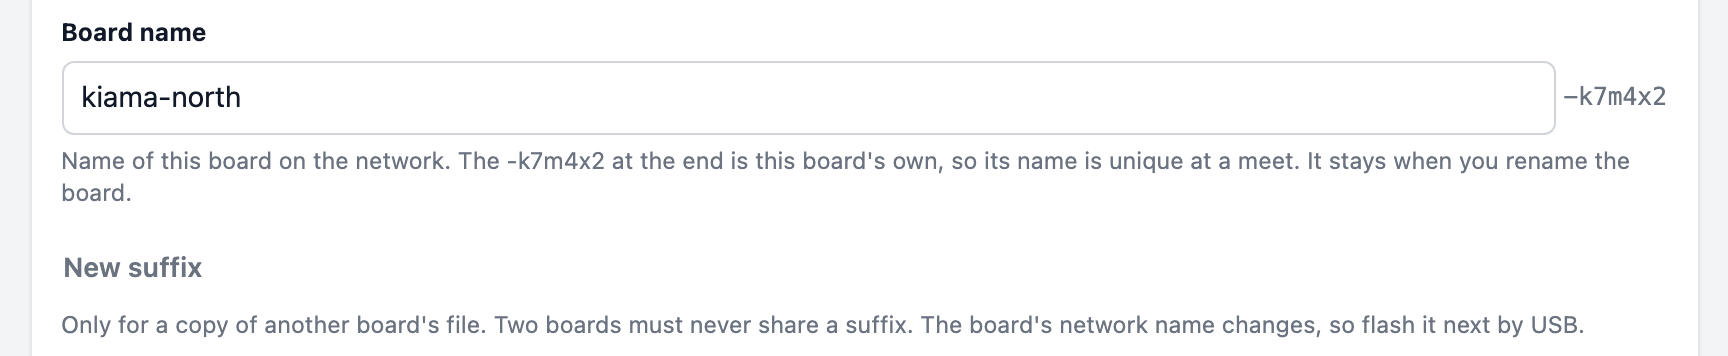
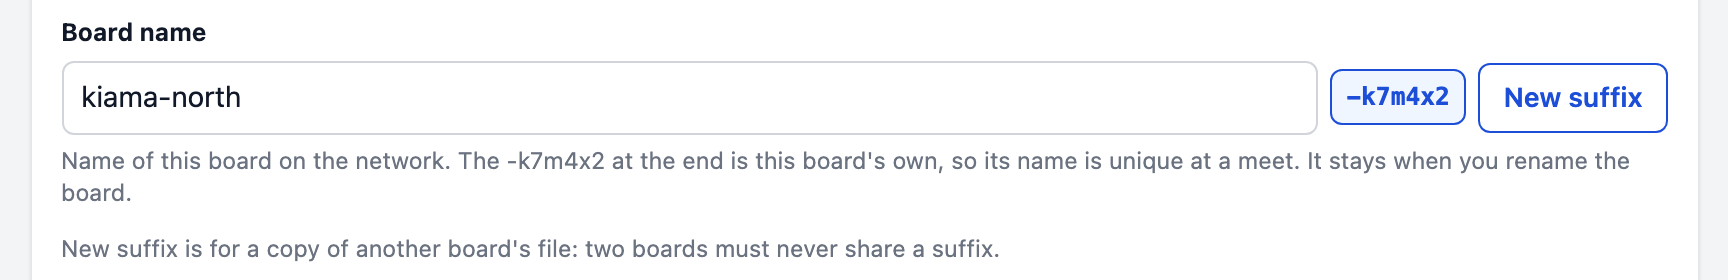
Board page: New suffix as a button beside the suffix, which asks first.
The suffix shows as a blue tag after the name, with New suffix beside it as
a proper button (it was a grey text link under the field). Being easier to
click, it now asks first, saying it is only for a copy of another board's
file and that the next flash is by USB. Add a suffix, on a board with none,
is the page's main button.

diff --git a/configurator/app.js b/configurator/app.js
@@ -899,20 +899,28 @@ function boardNameFields() {
   });
   const fields = [nameField];
   if (suffix) {
+    // The name, its suffix as a tag, and New suffix beside them.
     const input = nameField.querySelector("input");
     const row = document.createElement("span");
     row.className = "name-with-suffix";
     const tail = document.createElement("span");
     tail.className = "name-suffix";
     tail.textContent = `-${suffix}`;
+    tail.title = "This board's own suffix";
+    const again = document.createElement("button");
+    again.type = "button";
+    again.className = "suffix-button";
+    again.textContent = "New suffix";
+    again.setAttribute("aria-expanded", String(askingSuffix));
+    again.addEventListener("click", () => {
+      askingSuffix = !askingSuffix;
+      render();
+      if (askingSuffix) document.querySelector(".suffix-confirm button.primary")?.focus();
+    });
     input.replaceWith(row);
-    row.append(input, tail);
-    fields.push(suffixAction("New suffix",
-      "Only for a copy of another board's file. Two boards must never share a suffix. The board's network name changes, so flash it next by USB.",
-      () => {
-        newNameSuffix(b);
-        return `New suffix -${b.nameSuffix}. Flash this board by USB next: its network name has changed.`;
-      }));
+    row.append(input, tail, again);
+    fields.push(askingSuffix ? suffixConfirm(b) : suffixNote(
+      "New suffix is for a copy of another board's file: two boards must never share a suffix."));
   } else {
     fields.push(suffixAction("Add a suffix",
       "Adds six characters, such as -k7m4x2, so this board's name is unique at a meet. Boards that share or run logic need one. The board's network name changes, so flash it next by USB.",
@@ -924,12 +932,54 @@ function boardNameFields() {
   return fields;
 }
 
+// Whether New suffix is asking before it changes the board's name.
+let askingSuffix = false;
+
+function suffixNote(text) {
+  const wrap = document.createElement("div");
+  wrap.className = "suffix-action full";
+  wrap.append(hintEl(text));
+  return wrap;
+}
+
+// New suffix, asked first: the network name changes, so the next flash is by USB.
+function suffixConfirm(b) {
+  const box = document.createElement("div");
+  box.className = "suffix-confirm full";
+  const ask = document.createElement("p");
+  ask.textContent = `Give this board a new suffix in place of -${b.nameSuffix}? Do this only for a copy of another board's file: two boards must never share a suffix. The board's network name changes, so flash it next by USB.`;
+  const yes = document.createElement("button");
+  yes.type = "button";
+  yes.className = "primary";
+  yes.textContent = "Yes, give it a new suffix";
+  yes.addEventListener("click", () => {
+    newNameSuffix(b);
+    askingSuffix = false;
+    persist();
+    render();
+    flash("ok", `New suffix -${b.nameSuffix}. Flash this board by USB next: its network name has changed.`);
+  });
+  const no = document.createElement("button");
+  no.type = "button";
+  no.textContent = "Cancel";
+  no.addEventListener("click", () => {
+    askingSuffix = false;
+    render();
+  });
+  const row = document.createElement("div");
+  row.className = "dialog-actions";
+  row.append(no, yes);
+  box.append(ask, row);
+  return box;
+}
+
+// Add a suffix, for an older board with none: the page's main button.
 function suffixAction(label, hint, apply) {
   const wrap = document.createElement("div");
   wrap.className = "suffix-action full";
   const button = document.createElement("button");
   button.type = "button";
-  button.className = "text";
+  button.className = "primary";
   button.textContent = label;
   button.addEventListener("click", () => {
     const message = apply();

diff --git a/configurator/styles.css b/configurator/styles.css
@@ -565,7 +565,7 @@ button:focus-visible {
 .name-with-suffix {
   display: flex;
   align-items: center;
-  gap: 0.25rem;
+  gap: 0.4rem;
 }
 
 .name-with-suffix input {
@@ -575,7 +575,31 @@ button:focus-visible {
 
 .name-suffix {
   font-family: var(--mono);
-  color: var(--muted);
+  font-weight: 650;
+  color: var(--accent);
+  background: var(--accent-soft);
+  border: 1px solid var(--accent);
+  border-radius: 6px;
+  padding: 0.3rem 0.5rem;
+  white-space: nowrap;
+}
+
+button.suffix-button {
+  white-space: nowrap;
+  border-color: var(--accent);
+  color: var(--accent);
+}
+
+.suffix-confirm {
+  grid-column: 1 / -1;
+  padding: 0.75rem 0.9rem;
+  border: 1px solid var(--accent);
+  border-radius: 8px;
+  background: var(--accent-soft);
+}
+
+.suffix-confirm p {
+  margin: 0 0 0.5rem;
 }
 
 .suffix-action {

diff --git a/AGENTS.md b/AGENTS.md
@@ -72,7 +72,7 @@ This repo is a beginner path for model-railroad ESP32 boards that talk to JMRI/C
 - Live at https://aaron9589.github.io/esphome-for-model-railroading/
 - Source: `configurator/` (static site). Deployed by `.github/workflows/pages.yml` on pushes to `main` that touch `configurator/**`, only after `.github/workflows/test.yml` passes; `configurator/test/` is left out of the site. `test.yml` also runs on PRs into `main`, `feature/logic` and `logic/**` (stacked work items) and on pushes to `feature/logic`.
 - Writes one `board.yaml` with an `esphome-mr-config:1` comment so the same file can be imported again. Do not invent a second file format.
-- New boards get a six-character name suffix (`board.nameSuffix`, letters and digits without `0`, `o`, `1`, `l`), kept on rename: it is the board's identity at a meet. The Board page edits the part before it (19 characters at most) and offers **Add a suffix** (old boards) and **New suffix** (a copy of another board's file). A board without one writes exactly the old YAML.
+- New boards get a six-character name suffix (`board.nameSuffix`, letters and digits without `0`, `o`, `1`, `l`), kept on rename: it is the board's identity at a meet. The Board page edits the part before it (19 characters at most) and offers **Add a suffix** (old boards; the page's main button) and **New suffix** (a copy of another board's file; a button beside the suffix, which is shown as a tag, and asks first). A board without one writes exactly the old YAML.
 - **Expanders (MCP23017)** on the Sensors page (`config.expanders`): each shares a PCA9685 board's SDA/SCL (`bus`, from 1) or has its own `sda`/`scl`; address `0x20`-`0x27`. A sensor on one stores `expander` (its name) and `pin` (0-15, shown A0-B7) instead of `gpio`. The page lists sensors on ESP pins first, then each expander as a card with its sensors under it (like turnouts under their PCA9685), with its own **Add sensor**. PCA9685 and expander cards fold from their title (`foldHeader`); which are folded is not saved. `i2cBuses()` works out the buses (two at most); one bus keeps the id-less `i2c:` YAML. Files without expanders keep no `expanders` key.
 - **Logic page** (on `feature/logic` only, being built): stored in `config.logic` (`mode`, `share`, ...); the page is `logic-ui.js` plus one file per part (`logic-ui-masts.js`: Masts, Buttons; `logic-ui-rules.js`: Sections, Groups and the rule cards; `logic-ui-views.js`: Who uses what, the control table; `logic-ui-start.js`: starters, the Download page's Logic version). Each part calls `EsphomeMrLogicUi.registerPart({ id, order, modes, text, render })`; its id is its card's element id, which validation links point at. Every word is in a `TEXT` handed to `registerPart`, linted for spec-only terms. Parts keep their logic in pure functions on their global (tested without a DOM) and use the shared helpers in `EsphomeMrLogicUi.UI`. Starters (2.8) are in `logic-starters.js` (the core: `defineStarter`, `defaults`, `problems`, `build`, `apply`, `dialog`), with One-train section and Lock turnouts in `logic-starters-sections.js` and Block signals and Route signal in `logic-starters-signals.js`. Building is plain JS that Node tests call; each starter's worked example is checked by putting its rules into the matching engine case and replaying it (`test/starters-*.test.js`). A starter's form turns its card on through `EsphomeMrLogicUiStart.registerStarter`. **MSS page** (4.2): `logic-ui-mss-steps.js` (guided steps, Ends, the Signals grid), `logic-ui-mss-module.js` (the module picture `logic-mss-module`, pinned at the top: a pure `layout(config)` of ends, tracks and junctions, checked by `test/mss-module.test.js`, falling back to one track to a row when tracks would overlap; clicking a block or boundary opens its form, a junction or end scrolls to its card); Try it (`logic-try`, registered for both modes) draws it live in MSS Logic through `livePicture` (trains in blocks, each signal's lamp, the route the turnouts set, turnouts to click) and runs a train with `trainRoute` (in at an end, along the set route, out at another) and `trainStarts`; `EsphomeMrMssBuilder.namesOf` maps the description to the built block and signal names. It hides the signals with no lights and the Sections heading, `logic-ui-mss-tracks.js` (each track's From and To, and the form for the block or boundary picked on the picture, `pick`/`picked`; any change saves and draws the whole page), `logic-ui-mss-junctions.js` (junctions from a shape, routes; a junction keeps the `shape` it was made from, used only to draw it), `mss-templates.js` (the standard MSS modules: Crossover, Cascade, Complex cascade, as the ISE boards build them; `plan`/`apply` write the description and hand the page's `addItems` the sensors, turnout and CATS-aspect masts to add with free pins; signals are individual LEDs by default, three to a head, or one WS2812B LED a head with `style: "strip"`; the confirm panel warns when the LEDs outnumber `safeOutputPins`, the free pins that are not strapping pins; offered on the steps card while the module is empty), `logic-ui-mss-marks.js` (red dots: mark an element with `data-mss-part` and `data-mss-<key>` matching the builder's `where`; `apply` runs after the page draws). Parts register with `modes: ["mss"]` and the ids in `EsphomeMrMssBuilder.PARTS`; the views show built items read-only, marked Made by MSS Logic; `test/mss-page.test.js` lints MSS-only terms. Its YAML and XML come from `logic-yaml.js` hooks in `generator.js`. Mode None with Share unticked writes no `logic` key, so the YAML is unchanged. **Share with other boards** (on by default in Field Logic) adds only: the board Online topic as MQTT birth/will/shutdown, each sensor's retained `/State`, each turnout's retained `/Moving` (around announced throws, after `/Thrown`), each mast's retained `/State` (its JMRI aspect name), and the Owner MAC check (`trains/track/board/<board>/Owner`; a clash logs an error and shows on the web page). JMRI XML gets a Logic tick box with `MSboard/<board>/Online`. **Blocks** (`logic.blocks`, Field Logic only): each is a template `binary_sensor` `<block>_block`, occupied while any member is (this board's sensor by name, or `{board, sensor|block}` from a linked board, which reads occupied until known; a member on an expander that `is_failed()` or `status_has_warning()` reads occupied). It publishes like a detector, plus `/State` when sharing, and goes in the JMRI Logic box. **Field Logic on the board** (`logic-yaml.js`, work item 2.5): Field Logic always writes the `mr_logic` component (`external_components` from `LOGIC_COMPONENT_REF`, which CI checks exists on GitHub), the `Field logic` switch, a `Release <section>` button per section, and the `Logic version` text sensor. The rule table is the engine cases' board format (`logicTable`); the version code is a hash of it (`versionCode`). A mast that rules set keeps its `mqtt_subscribe` without `on_value` (the component reads it) and needs no MQTT. Aspect names in the table are the Signal Masts labels, in order, so they must be unique on masts logic uses. Untagged aspects are `stop`. A rule-locked turnout (`lockedTurnoutNames`) gets `<id>_field_locked` beside the remote lock in the button guard, `CLOSED`/`THROWN` handlers and latch script (`lockFlags`), and the lock report from a template `<id>_lock_report` even without Remote lock. With Field Logic the component runs the unlock re-sync (`remote_locked`, `resync` bindings), so the `UNLOCKED` handler only clears the flag. **Validation** (2.6): `validateConfig` returns `links`, a Map from each message to `{ view, part }` (a page, and an element id such as `logic-groups`); `renderMessages` adds a **Show** link. Logic checks live in `logic-yaml.js` `validate`, reported through `reporter(errors, warnings, links)`: references, aspects, sections (one per block, here and across linked boards, whose snapshot keeps `logic.resources`), the mast cycle check (`mastCycles`), rule-button pins, and the warnings. Messages say what is wrong, why, and what to do, in the page's plain words. **Checker** (2.9): `logic-checker.js` explores every reachable state of the rule table in the JS engine (replaying the shortest path to each state; a wait step runs scans until something changes, so each timer can elapse at any point; inputs are only what the rules read). It reports deadlock (an error, blocking the download), starvation, rules that never apply and masts stuck at Stop (warnings), and falls back to seeded random runs past its budget. Limits (4.5, spec *Checker limits*, re-measured with `configurator/test/bench/checker-limits.mjs`, which `npm test` does not run): it checks a board in parts (`partsOf`: a mast's or section's rules plus the masts they read), explores inputs the rules cannot tell apart once (`checkerInputs`; Try it keeps `inputsOf`), and keys a state on each section's waiting order (`checkerView().asked`). Any change to these must keep `test/checker.test.js`'s comparison with `{ split: false, allInputs: true }` passing. `BUDGETS.validation` (2,000 states / 400 ms, then 200 ms of random runs) runs in validation in both Field Logic and MSS Logic, only when nothing else is wrong, memoised on the rule table; when it gives up, the Download page offers **Check every combination** (`checkFully`, `BUDGETS.full`: 30,000 states / 20 s), whose result stands until the rules change. Each link carries its Show me `sequence` (`{ do: event }` / `{ wait: scans }` after the start-up scan) for Try it. `logic.js` has `checkerView()` for it, with no C++ counterpart. **Try it** (2.10): `logic-try.js` is the pure core (`EsphomeMrLogicTry.createSession`: inputs from the checker's `inputsOf` plus "not known" for remote items, step, skip ahead, `play(sequence)` for Show me, `view()`; `shapesOf` for strip diagrams from One-train section and Block signals groups; `runTrain`), and `logic-ui-try.js` is the page part `logic-try` (order 88). A validation link with `sequence` opens it through `EsphomeMrLogicUiTry.showMe`. Renaming a sensor, turnout or mast on its page renames its Logic page references (`renameReferences`, on `change`, not per key, and not when another item of that kind has the old or new name). Deleting one leaves the references, which validation reports by name.
 - The mast editor lists lamps top of the mast first (with LED numbers; the stored `lamps` array stays LED 0 first) and shows each aspect as a card with a small mast picture; click a lamp to set its colour and effect. The raw JMRI match strings sit under a collapsed *JMRI aspect* section. There are no lamp presets.

diff --git a/docs/field-logic-guide.md b/docs/field-logic-guide.md
@@ -35,14 +35,14 @@ A current detector misses unpowered cars, so the tail of a train can leave Int 2
 Boards that share or run logic need a name that no other board at a meet has. The configurator adds six characters to every new board's name, such as `kiama-north-k7m4x2`. Those six characters are this board's own, and they stay when you rename it.
 
 1. Open the configurator's **Board** page.
-2. Look at **Board name**. You type the first part in the box. The suffix is the dash and six characters just after the box, such as `-k7m4x2`. If it is there, go on to Step 2.
-3. If there is none, the box has an **Add a suffix** button under it. Click it.
+2. Look at **Board name**. You type the first part in the box. The suffix is the dash and six characters in the blue tag just after the box, such as `-k7m4x2`. If it is there, go on to Step 2.
+3. If there is none, there is a blue **Add a suffix** button under the box. Click it.
 
 Adding a suffix changes the board's network name, so the next flash must be by USB (Step 6).
 
-**Copied a file?** If you made this board from another board's `board.yaml`, click **New suffix**, under the name. Two boards must never share a suffix. This changes the network name too, so flash by USB next.
+**Copied a file?** If you made this board from another board's `board.yaml`, click **New suffix**, beside the suffix, then **Yes, give it a new suffix**. Two boards must never share a suffix. This changes the network name too, so flash by USB next.
 
-![The Board name field: kiama-north typed in the box, -k7m4x2 just after it, and the New suffix button under it](img/field-logic/01-board-name.png)
+![The Board name field: kiama-north typed in the box, -k7m4x2 in a blue tag just after it, and the New suffix button beside that](img/field-logic/01-board-name.png)
 
 ---
 
